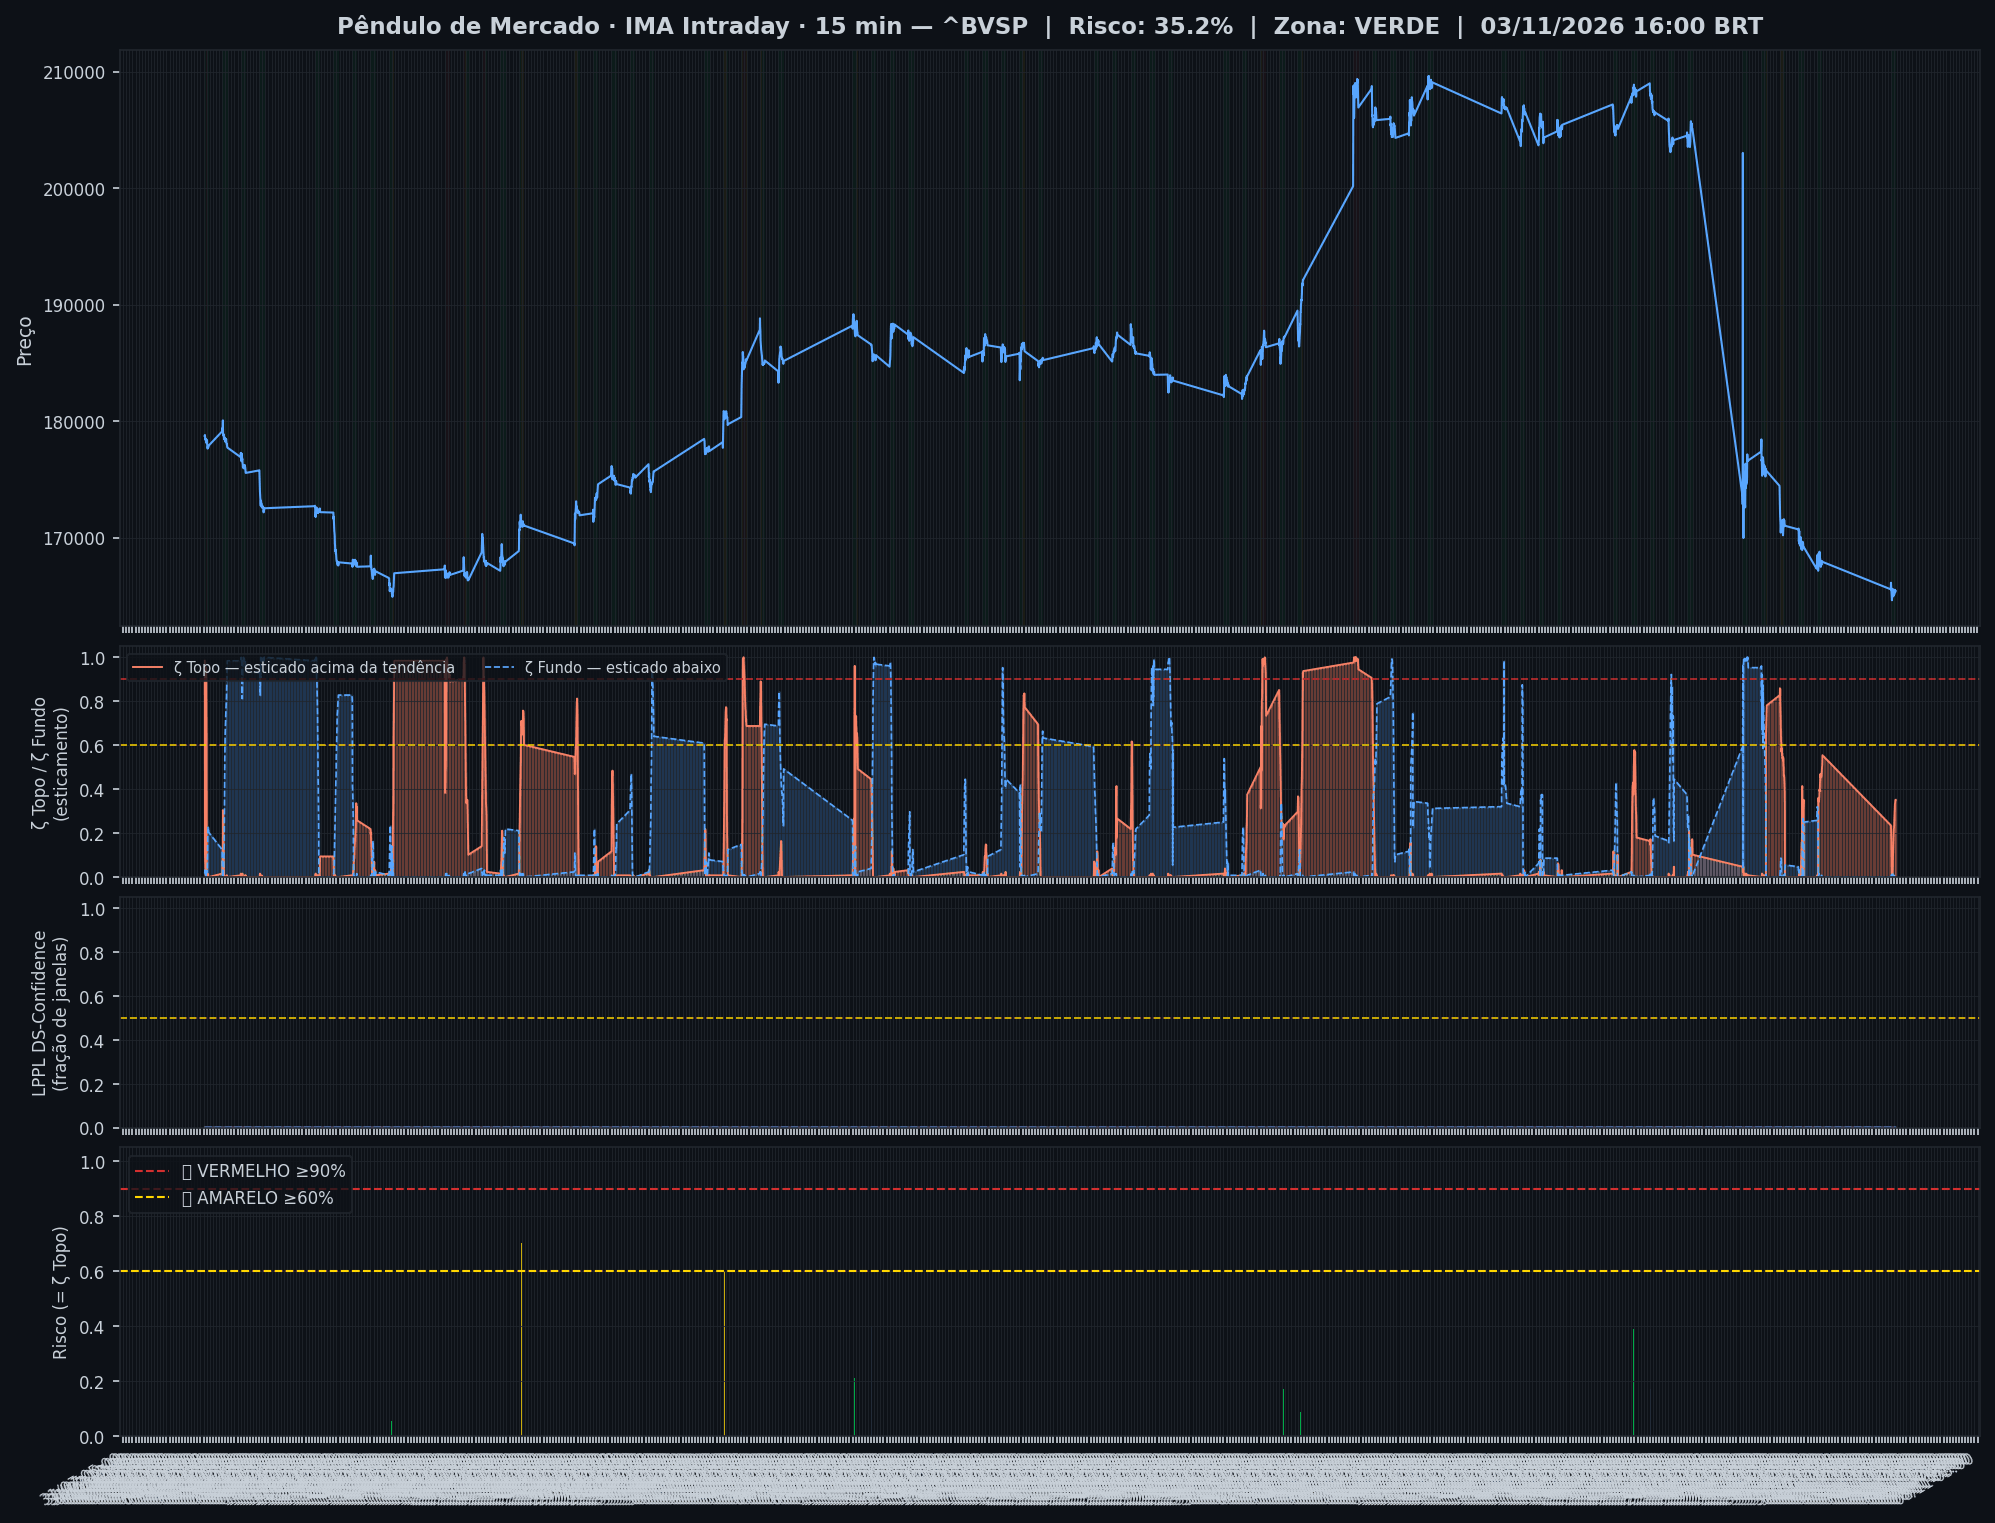
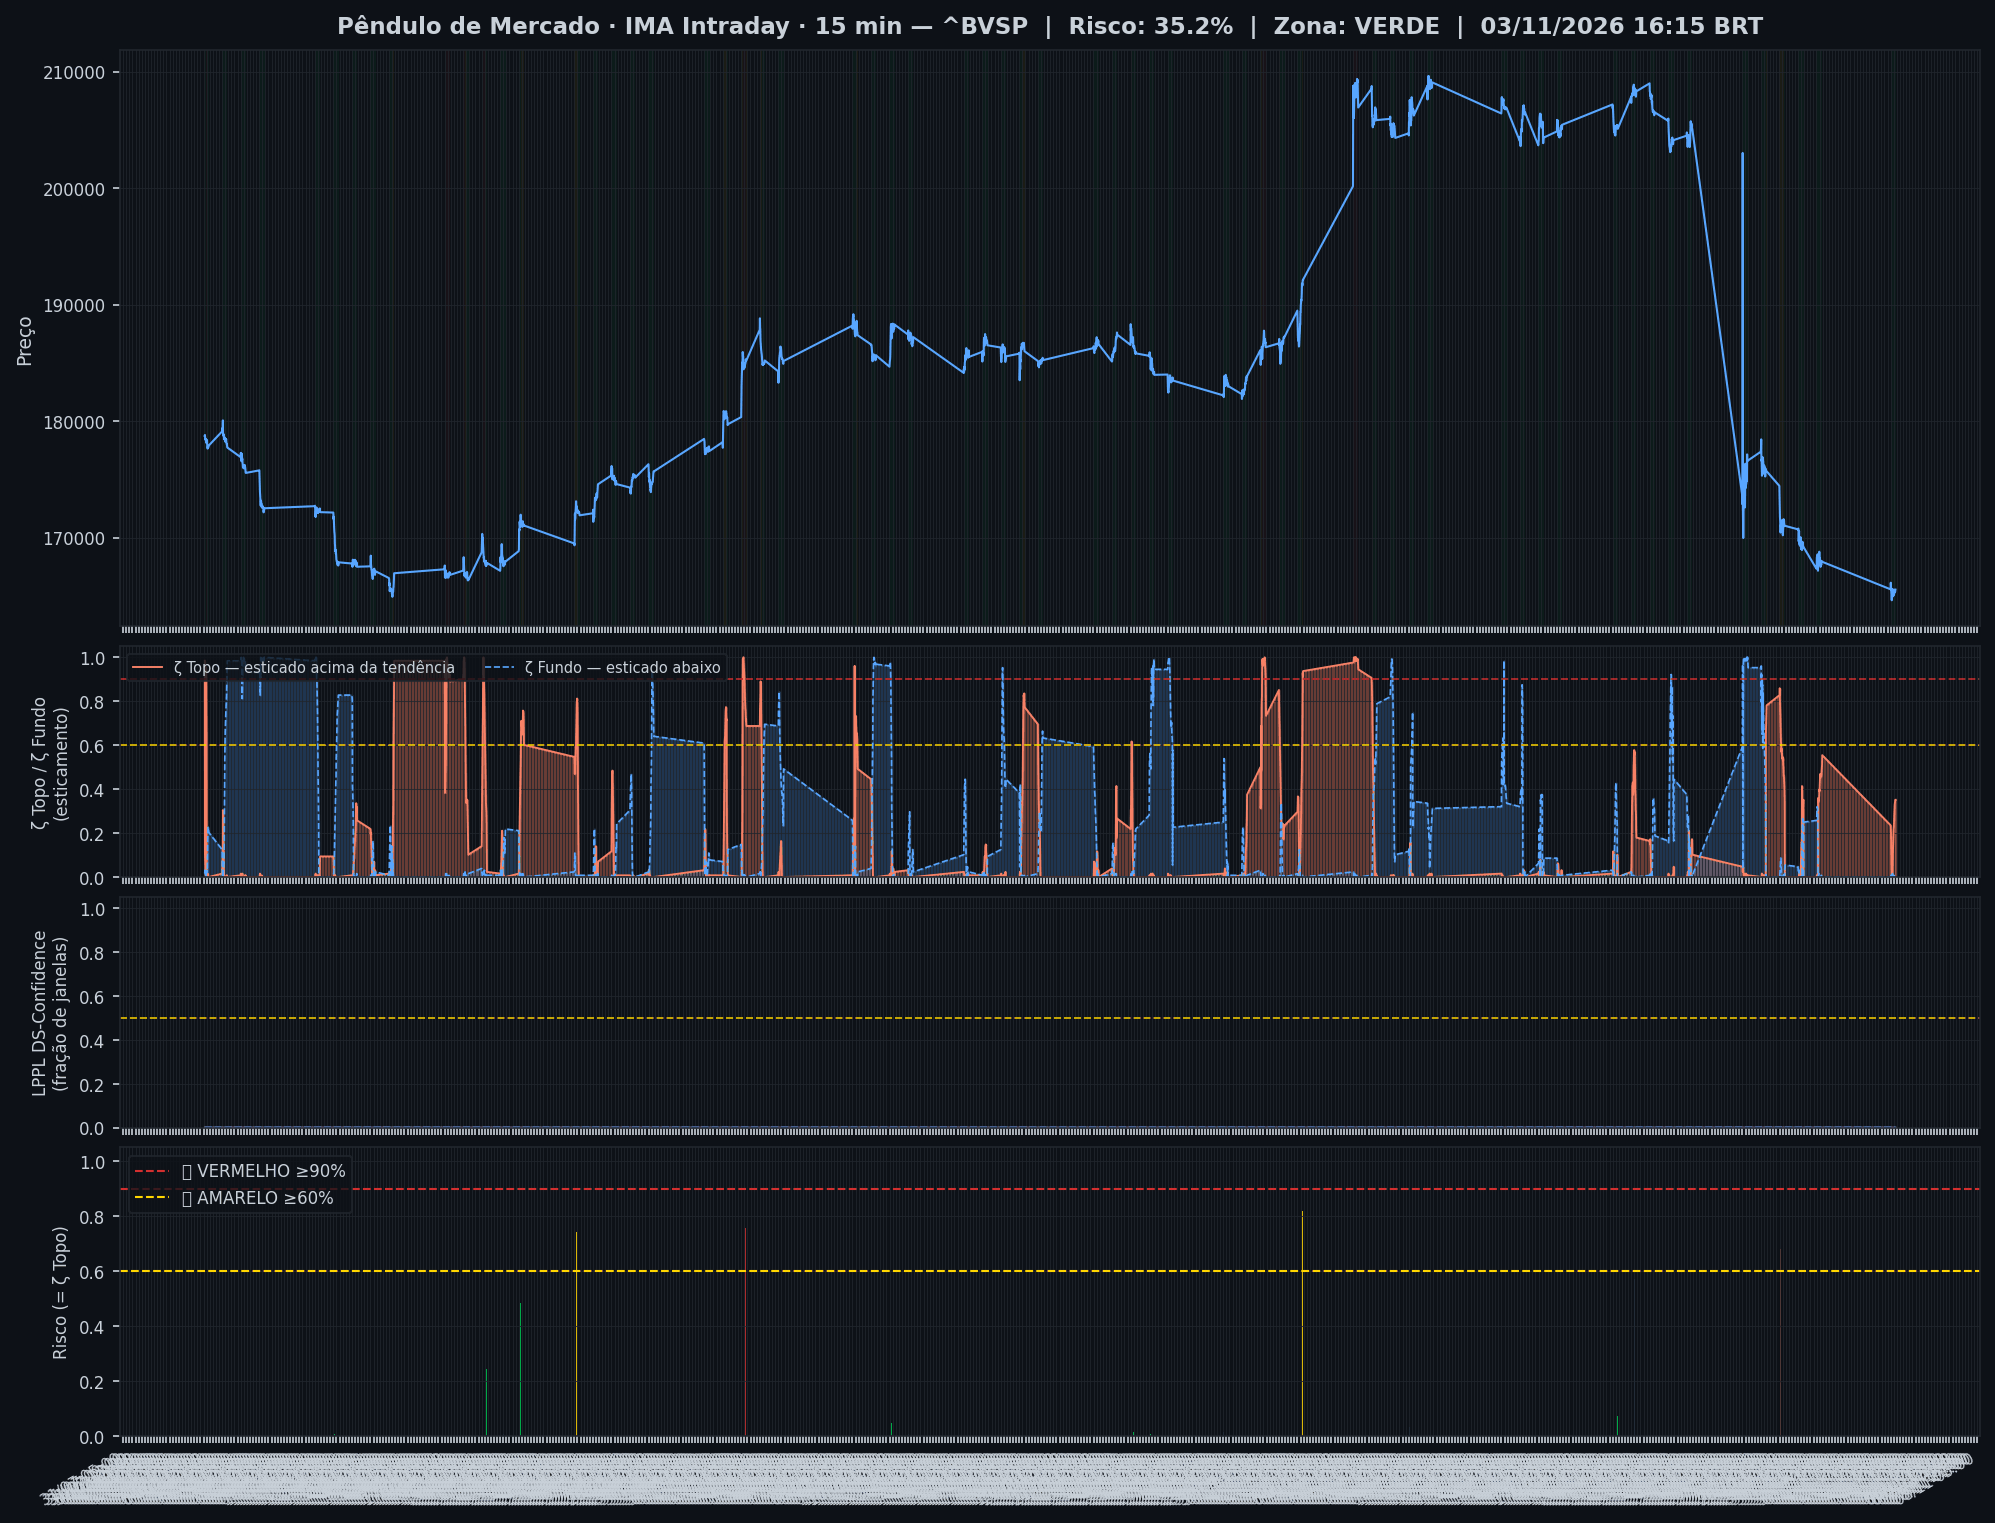
🤖 Auto: Sinal 03/11/2026 16:30

Changed region(s): [[0.808, 0.4629, 0.9323, 0.5863], [0.6216, 0.5246, 0.6526, 0.5863], [0.8391, 0.9567, 0.8702, 0.9875]]

diff --git a/content/intraday/2026-11-03.md b/content/intraday/2026-11-03.md
@@ -1,10 +1,10 @@
 ---
-title: "🟢 Intraday 03/11/2026 16:00 BRT — VERDE"
+title: "🟢 Intraday 03/11/2026 16:15 BRT — VERDE"
 date: 2026-11-03
 tags: [intraday]
 ---
 
-> [!success] Onde o mercado está agora (03/11 16:00, candles de 15 min): **🟢 Calmo**
+> [!success] Onde o mercado está agora (03/11 16:15, candles de 15 min): **🟢 Calmo**
 > `Pânico ◀──────────────●──────▶ Euforia`
 >
 > O Ibovespa está dentro da sua faixa normal, sem excesso para cima nem para baixo.
@@ -20,7 +20,7 @@ tags: [intraday]
 > | 📍 **Sinais** | hoje: 2 sinal(is), 1 forte(s) | [abrir](sinais-topo-fundo/) |
 > | 🧪 **Placar ao vivo** | 1 operação(ões), 0 com lucro, soma -0,8% | [abrir](operacoes/) |
 
-> [!success] IMA Intraday · 15 min (03/11 16:00): 🟢 **VERDE** — Risco 35% · ＝ +0 p.p. vs leitura anterior
+> [!success] IMA Intraday · 15 min (03/11 16:15): 🟢 **VERDE** — Risco 35% · ＝ +0 p.p. vs leitura anterior
 > `███████░░░░░░░░░░░░░`
 > Preço na faixa normal em torno da tendência.
 
@@ -32,13 +32,13 @@ tags: [intraday]
 >
 > *Leitura educacional baseada em 26 anos de dados, não recomendação. [Como usar](../metodologia/crise#3-como-usar-na-prática).*
 
-| Indicador — IMA Intraday · 15 min (03/11 16:00) | Valor |
+| Indicador — IMA Intraday · 15 min (03/11 16:15) | Valor |
 |---|---|
 | 🔴 ζ Topo — preço esticado acima da tendência | **35%** |
 | 🔵 ζ Fundo — preço esticado abaixo da tendência | 0% |
 | 🫧 LPPL bolha — alta super-exponencial (risco de crash) | 0% |
 | 🫧 LPPL antibolha — queda super-exponencial (risco de repique) | 0% |
-| 📊 Ibovespa | 165.414 pts |
+| 📊 Ibovespa | 165.526 pts |
 
 ![Gráfico do sinal](../graficos/sinal_intraday.png)
 
@@ -46,6 +46,7 @@ tags: [intraday]
 
 | Data | Zona | Evento | Risco | ζ Topo | ζ Fundo | LPPL |
 |---|---|---|---|---|---|---|
+| 2026-11-03 16:15 | 🟢 VERDE |  | **35%** | 35% | 0% | 0% |
 | 2026-11-03 16:00 | 🟢 VERDE |  | **35%** | 35% | 0% | 0% |
 | 2026-11-03 15:45 | 🟢 VERDE |  | **35%** | 35% | 0% | 0% |
 | 2026-11-03 15:30 | 🟢 VERDE |  | **34%** | 34% | 0% | 0% |
@@ -75,7 +76,6 @@ tags: [intraday]
 | 2026-10-30 17:00 | 🟢 VERDE |  | **51%** | 51% | 0% | 0% |
 | 2026-10-30 16:45 | 🟢 VERDE |  | **50%** | 50% | 0% | 0% |
 | 2026-10-30 16:30 | 🟢 VERDE |  | **49%** | 49% | 0% | 0% |
-| 2026-10-30 16:15 | 🟢 VERDE |  | **48%** | 48% | 1% | 0% |
 
 <small>Destaques: 🟡 ≥ 60% · 🔴 ≥ 90% (Risco e ζ Topo) · 🔵 ≥ 60% · 🔪 ≥ 90% (ζ Fundo) · 🫧 ≥ 30% · 🫧🔴 ≥ 50% (LPPL)</small>
 
@@ -85,38 +85,38 @@ tags: [intraday]
 
 | Zona | Ativo | Setor | ζ Topo | ζ Fundo |
 |---|---|---|---|---|
-| 🟢 | **VIBRA** | Energia | 44.5% | 0.0% |
+| 🟢 | **VIBRA** | Energia | 46.9% | 0.0% |
+| 🟢 | **USD/BRL** | Câmbio | 0.0% | 39.8% |
 | 🟢 | **AMBEV S/A** | Consumo | 39.1% | 0.0% |
-| 🟢 | **USD/BRL** | Câmbio | 0.0% | 39.1% |
-| 🟢 | **SABESP** | Saneamento | 35.9% | 0.0% |
+| 🟢 | **SABESP** | Saneamento | 36.7% | 0.0% |
 | 🟢 | **REDE D OR** | Saúde | 35.2% | 0.0% |
 | 🟢 | **B3** | Financeiro | 32.8% | 0.0% |
 | 🟢 | **BTGP BANCO** | Financeiro | 32.8% | 0.0% |
 | 🟢 | **ENEVA** | Energia | 32.0% | 0.0% |
-| 🟢 | **ITAUSA** | Financeiro | 31.2% | 0.0% |
-| 🟢 | **ITAUUNIBANCO** | Financeiro | 29.7% | 0.0% |
-| 🟢 | **COPEL** | Energia | 29.7% | 0.0% |
-| 🟢 | **LOCALIZA** | Aluguel | 28.9% | 0.0% |
+| 🟢 | **COPEL** | Energia | 32.0% | 0.0% |
+| 🟢 | **ITAUUNIBANCO** | Financeiro | 28.9% | 0.0% |
+| 🟢 | **ITAUSA** | Financeiro | 28.1% | 0.0% |
+| 🟢 | **LOCALIZA** | Aluguel | 28.1% | 0.0% |
 | 🟢 | **EQUATORIAL** | Energia | 26.6% | 0.0% |
-| 🟢 | **ULTRAPAR** | Outros | 25.8% | 0.0% |
-| 🟢 | **PETROBRAS** | Petróleo | 25.0% | 0.0% |
-| 🟢 | **EMBRAER** | Outros | 0.8% | 22.7% |
-| 🟢 | **BRASIL** | Financeiro | 20.3% | 0.0% |
-| 🟢 | **PETROBRAS** | Petróleo | 17.2% | 0.0% |
-| 🟢 | **AXIA ENERGIA** | Energia | 16.4% | 0.0% |
-| 🟢 | **VALE** | Mineração | 0.8% | 14.8% |
-| 🟢 | **PRIO** | Petróleo | 5.5% | 0.0% |
-| 🟢 | **SUZANO S.A.** | Papel/Celulose | 0.0% | 3.9% |
-| 🟢 | **BRADESCO** | Financeiro | 2.3% | 0.8% |
-| 🟢 | **BBSEGURIDADE** | Financeiro | 0.8% | 1.6% |
-| 🟢 | **WEG** | Industrial | 0.0% | 0.8% |
-| 🟢 | **GERDAU** | Siderurgia | 0.8% | 0.0% |
+| 🟢 | **ULTRAPAR** | Outros | 26.6% | 0.0% |
+| 🟢 | **EMBRAER** | Outros | 0.8% | 25.0% |
+| 🟢 | **PETROBRAS** | Petróleo | 22.7% | 0.0% |
+| 🟢 | **BRASIL** | Financeiro | 21.1% | 0.0% |
+| 🟢 | **AXIA ENERGIA** | Energia | 15.6% | 0.0% |
+| 🟢 | **PETROBRAS** | Petróleo | 11.7% | 0.0% |
+| 🟢 | **VALE** | Mineração | 0.8% | 6.2% |
+| 🟢 | **BRADESCO** | Financeiro | 3.9% | 0.0% |
+| 🟢 | **WEG** | Industrial | 3.1% | 2.3% |
+| 🟢 | **SUZANO S.A.** | Papel/Celulose | 0.8% | 3.1% |
+| 🟢 | **PRIO** | Petróleo | 2.3% | 0.0% |
+| 🟢 | **BBSEGURIDADE** | Financeiro | 0.0% | 1.6% |
+| 🟢 | **GERDAU** | Siderurgia | 0.0% | 0.0% |
 
 <small>Destaques: 🟡 ≥ 60% · 🔴 ≥ 90% (Risco e ζ Topo) · 🔵 ≥ 60% · 🔪 ≥ 90% (ζ Fundo) · 🫧 ≥ 30% · 🫧🔴 ≥ 50% (LPPL)</small>
 
 ![Monitor multi-ativo](../graficos/multi_intraday.png)
 
-*Página atualizada em 03/11/2026 16:15 BRT (leitura da barra de 2026-11-03 16:00 BRT).*
+*Página atualizada em 03/11/2026 16:30 BRT (leitura da barra de 2026-11-03 16:15 BRT).*
 
 > [!warning] O que este indicador não faz
 > Medido em 5 anos de Ibovespa, o ζ **não antecipa** topos nem fundos: a capacidade de separar o que sobe do que cai ficou em 0,49–0,52, e 0,50 é moeda jogada ao ar. Ele descreve o estado de agora; não é aviso do que vem. As zonas verde/amarelo/vermelho continuam na página como descrição desse estado — **não as use como sinal de entrada ou saída**.

diff --git a/content/index.md b/content/index.md
@@ -6,9 +6,9 @@ tags: [home]
 
 **As ondas do mercado, explicadas.** Leitura do Ibovespa com estatística de 26 anos, baseada no trabalho de pesquisadores e traders reconhecidos e adaptada por Jarbas Daniel da Costa.
 
-*Última atualização: 03/11/2026 16:15 BRT · Intraday 15min*
+*Última atualização: 03/11/2026 16:30 BRT · Intraday 15min*
 
-> [!success] Onde o mercado está agora (03/11 16:00, candles de 15 min): **🟢 Calmo**
+> [!success] Onde o mercado está agora (03/11 16:15, candles de 15 min): **🟢 Calmo**
 > `Pânico ◀──────────────●──────▶ Euforia`
 >
 > O Ibovespa está dentro da sua faixa normal, sem excesso para cima nem para baixo.
@@ -61,18 +61,18 @@ tags: [home]
 > *Leitura educacional baseada em 26 anos de dados, não recomendação. [Como usar](metodologia/crise#3-como-usar-na-prática).*
 
 > [!info]- 🌊 Detalhes do Sinal de Crise (indicadores e últimos 7 pregões)
-> > [!success] IMA Intraday · 15 min (03/11 16:00): 🟢 **VERDE** — Risco 35% · ＝ +0 p.p. vs leitura anterior
+> > [!success] IMA Intraday · 15 min (03/11 16:15): 🟢 **VERDE** — Risco 35% · ＝ +0 p.p. vs leitura anterior
 > > `███████░░░░░░░░░░░░░`
 > > Preço na faixa normal em torno da tendência.
 >
 >
-> | Indicador — IMA Intraday · 15 min (03/11 16:00) | Valor |
+> | Indicador — IMA Intraday · 15 min (03/11 16:15) | Valor |
 > |---|---|
 > | 🔴 ζ Topo — preço esticado acima da tendência | **35%** |
 > | 🔵 ζ Fundo — preço esticado abaixo da tendência | 0% |
 > | 🫧 LPPL bolha — alta super-exponencial (risco de crash) | 0% |
 > | 🫧 LPPL antibolha — queda super-exponencial (risco de repique) | 0% |
-> | 📊 Ibovespa | 165.414 pts |
+> | 📊 Ibovespa | 165.526 pts |
 >
 > **Multi-ativo:** 0% em tensão (0🔴 0🟡 de 26 ativos)
 >

diff --git a/content/operacoes/entradas.md b/content/operacoes/entradas.md
@@ -31,7 +31,7 @@ description: "Compra depois de um sinal de fundo: Nadaraya no diário, semáforo
 > | Diário · Semáforo N3 após ζ Fundo | 07/07/26 a 172.021 | 10/08/26 a 172.021 | **+0,0%** | stop no preço de entrada |
 > | H4 · Semáforo N2 | 12/06/26 14h a 171.134 | 15/06/26 14h a 171.134 | **+0,0%** | stop no preço de entrada |
 >
-> <small>Atualizado 02/11 19:00 · checado no pregão às 16:15. Nota: ✅ passou no teste fora da amostra (walk-forward 2008–2026) · 🧪 em teste (H4, com aviso no Telegram) ou em observação (ζ, sem aviso) · 🧪 na tabela = operação do teste ao vivo.</small>
+> <small>Atualizado 02/11 19:00 · checado no pregão às 16:30. Nota: ✅ passou no teste fora da amostra (walk-forward 2008–2026) · 🧪 em teste (H4, com aviso no Telegram) ou em observação (ζ, sem aviso) · 🧪 na tabela = operação do teste ao vivo.</small>
 >
 > *Regras: depois de um sinal de fundo, o Diário entra quando o Nadaraya vira para cima; o Semanal e o H4 entram quando um fundo do semáforo fica fixo. Stop e saída de cada regra na [metodologia](metodologia/regras-de-operacao#entradas-do-método). Nenhuma regra de venda passou no teste. Os números do histórico têm viés de escolha (overfitting); o placar ao vivo é o que vale. Leitura educacional do método, não recomendação.*
 

diff --git a/content/historico.md b/content/historico.md
@@ -5,7 +5,7 @@ tags: [historico]
 
 # 📜 Histórico de leituras (v5)
 
-**2.100 leituras** desde 2026-07-03. Na página ficam os últimos 3 dias leitura por leitura e o resumo de cada dia anterior; o registro inteiro está no arquivo para baixar.
+**2.101 leituras** desde 2026-07-03. Na página ficam os últimos 3 dias leitura por leitura e o resumo de cada dia anterior; o registro inteiro está no arquivo para baixar.
 
 [**Baixar o histórico completo**](historico-completo.csv) (92 KB · abre no Excel e no LibreOffice)
 
@@ -16,6 +16,7 @@ tags: [historico]
 
 | Data | Modo | Zona | Risco | IMA | LPPL |
 |---|---|---|---|---|---|
+| 2026-11-03 16:15 | intraday | 🟢 VERDE | 35% | 35% | 0% |
 | 2026-11-03 16:00 | intraday | 🟢 VERDE | 35% | 35% | 0% |
 | 2026-11-03 15:45 | intraday | 🟢 VERDE | 35% | 35% | 0% |
 | 2026-11-03 15:30 | intraday | 🟢 VERDE | 34% | 34% | 0% |

diff --git a/content/operacoes/ranking.md b/content/operacoes/ranking.md
@@ -5,7 +5,7 @@ tags: [operacoes]
 description: "As regras de compra do site ordenadas pelo resultado, com treino, teste e placar ao vivo"
 ---
 
-*Atualizado 03/11/2026 16:15 · histórico simulado com as regras congeladas em 23/10/2026 + placar ao vivo.*
+*Atualizado 03/11/2026 16:30 · histórico simulado com as regras congeladas em 23/10/2026 + placar ao vivo.*
 
 As regras de compra do site, **da que mais rendeu para a que menos rendeu**. O resultado é por operação, no índice à vista, sem custos e sem juros compostos (a soma é só a soma das operações). **Treino** = entradas de 2001 a 2013 e **teste** = 2014 em diante: uma regra só é confiável se ganhou nos dois. O único resultado sem nenhum ajuste ao histórico é o **placar ao vivo**.
 

diff --git a/content/linha-do-tempo/index.md b/content/linha-do-tempo/index.md
@@ -5,7 +5,7 @@ description: "Todo sinal, ordem, stop e aviso do Pêndulo de Mercado, do mais re
 tags: [eventos]
 ---
 
-*Atualizada 03/11/2026 16:15 BRT · a cada 15 min no pregão e às 19h.*
+*Atualizada 03/11/2026 16:30 BRT · a cada 15 min no pregão e às 19h.*
 
 Tudo o que o sistema fez ou detectou, **do mais recente para o mais antigo**: sinais de topo e fundo, ordens de compra e de venda armadas, compras, vendas, stops, avisos de 🚨 preço perto do nível e mudanças da Crise. Os **últimos 7 dias** ficam abertos; o resto, por **ano → mês → dia**.
 
